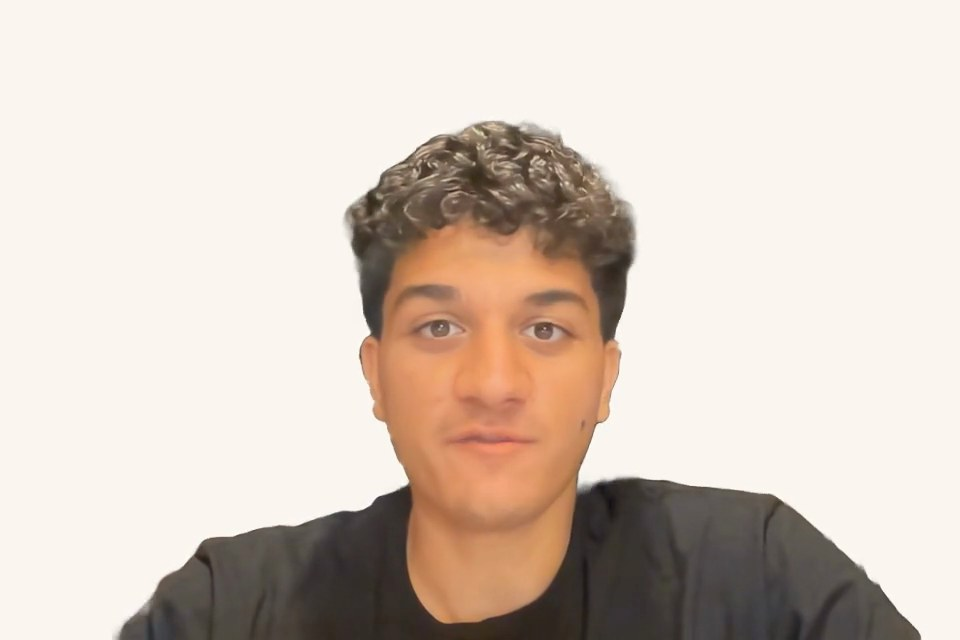
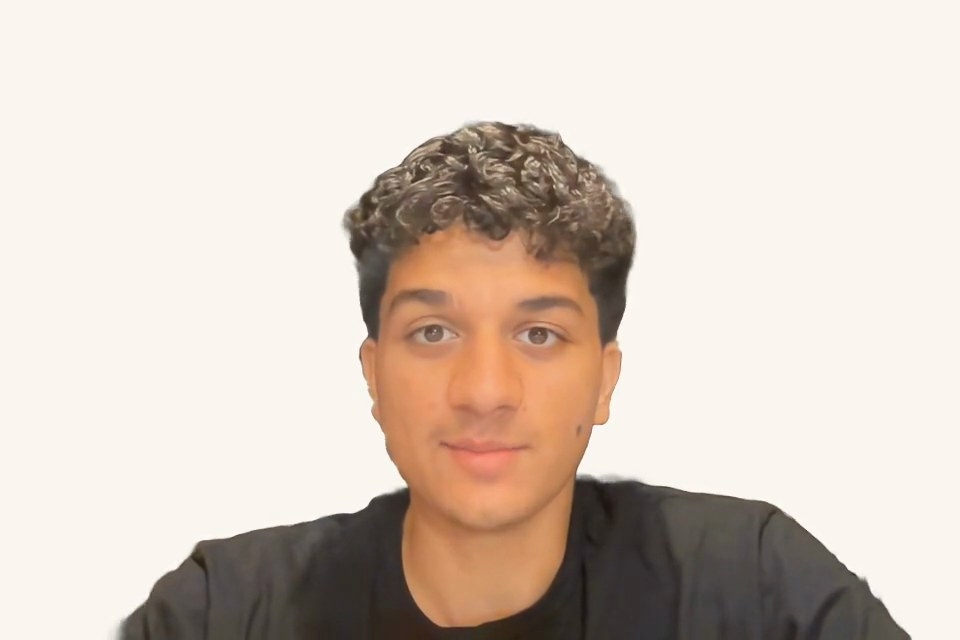
Videos: speed slider. Arturo, Naga: better starting stills.

diff --git a/components/OutreachPage.tsx b/components/OutreachPage.tsx
@@ -186,6 +186,11 @@ const Cutout: React.FC<{
 }> = ({ src, videoRef, poster, crop }) => {
   const [playing, setPlaying] = React.useState(false);
   const [shape, setShape] = React.useState(16 / 10);
+  const [speed, setSpeed] = React.useState(1);
+  const changeSpeed = (n: number) => {
+    setSpeed(n);
+    if (videoRef.current) videoRef.current.playbackRate = n;
+  };
   const toggle = () => {
     const v = videoRef.current;
     if (!v) return;
@@ -197,6 +202,7 @@ const Cutout: React.FC<{
     'linear-gradient(to right, transparent, #000 7%, #000 93%, transparent), linear-gradient(to bottom, transparent, #000 6%, #000 66%, rgba(0,0,0,0.94) 72%, rgba(0,0,0,0.8) 78%, rgba(0,0,0,0.6) 84%, rgba(0,0,0,0.38) 89%, rgba(0,0,0,0.18) 94%, rgba(0,0,0,0.05) 98%, transparent)';
   return (
     <div className="player relative mx-auto" style={{ '--shape': (shape * cw) / ch } as React.CSSProperties}>
+      <div className="relative">
       <div
         className="relative overflow-hidden"
         style={{ aspectRatio: String(shape * cw / ch), WebkitMaskImage: fade, maskImage: fade, WebkitMaskComposite: 'source-in', maskComposite: 'intersect' }}
@@ -210,6 +216,7 @@ const Cutout: React.FC<{
         onLoadedMetadata={(e) => {
           const v = e.currentTarget;
           if (v.videoWidth && v.videoHeight) setShape(v.videoWidth / v.videoHeight);
+          v.playbackRate = speed;
         }}
         onClick={toggle}
         onPlay={() => setPlaying(true)}
@@ -227,6 +234,21 @@ const Cutout: React.FC<{
       >
         ▶ play
       </button>
+      </div>
+      <label className="mt-3 flex items-center justify-center gap-2 font-sans text-[11px] text-[#a8a199]">
+        speed
+        <input
+          type="range"
+          min={0.75}
+          max={2}
+          step={0.25}
+          value={speed}
+          onChange={(e) => changeSpeed(Number(e.target.value))}
+          aria-label="Playback speed"
+          className="w-28 cursor-pointer accent-[#B4532A]"
+        />
+        <span className="w-9 text-left tabular-nums text-[#1b1b1b]">{speed}×</span>
+      </label>
     </div>
   );
 };
